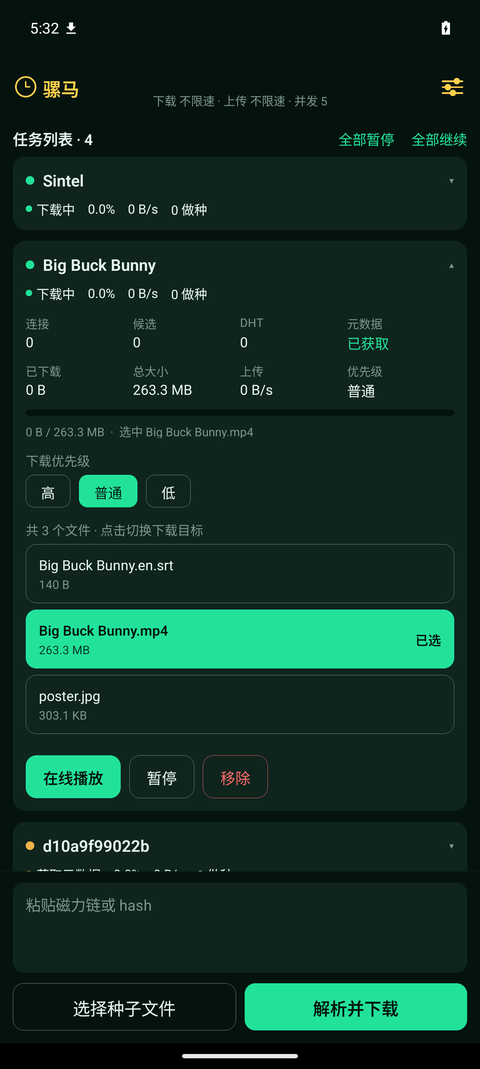
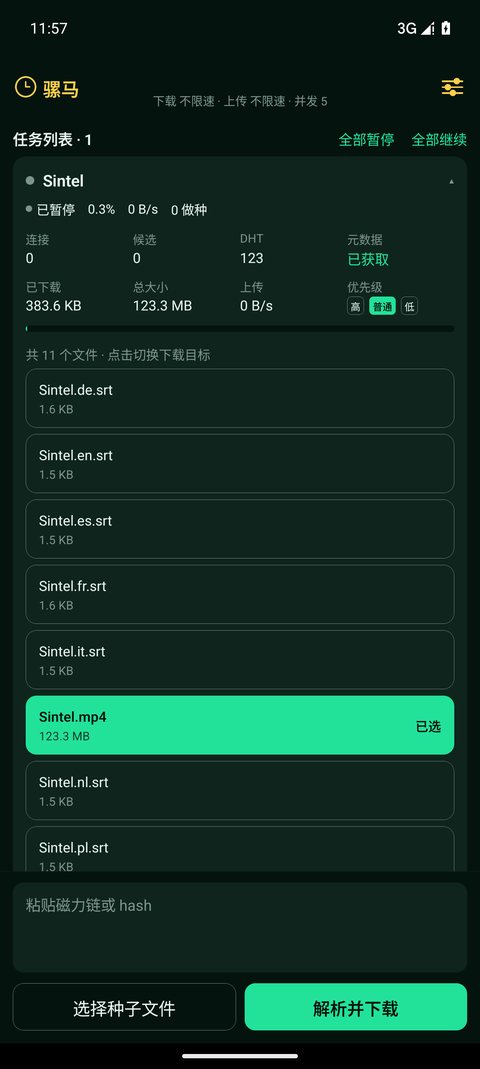
docs: README 更新到 0.2.12，更新任务详情截图

diff --git a/README.md b/README.md
@@ -26,11 +26,11 @@
 
 | | |
 |---|---|
-| 最新版本 | **v0.2.11**（[Releases](../../releases/latest)） |
+| 最新版本 | **v0.2.12**（[Releases](../../releases/latest)） |
 | 架构 | 仅 **arm64-v8a**（其他架构设备无法安装） |
 | 系统要求 | Android 9（API 28）及以上 |
 | 应用大小 | 约 18.5 MB |
-| 版本 | versionName 0.2.11 / versionCode 11 |
+| 版本 | versionName 0.2.12 / versionCode 12 |
 
 > 只支持 arm64-v8a：下载引擎的原生库只提供了这个架构的构建产物。
 
@@ -69,7 +69,15 @@
 - 任务卡从右侧向左滑，露出「移除」
 - 左上角历史图标是固定入口，不依赖手势
 
-## 本次更新（0.2.11）
+## 本次更新（0.2.12）
+
+- **暂停进度**：暂停任务重启后保留已下载、总大小、百分比，不再被空的 resume data 覆盖
+- **暂停状态**：恢复时直接以 PAUSED 加入 session，重启后不会自动开始下载/上传
+- **卡片精简**：移除进度条下重复的「已下载 / 总大小 · 选中文件」文字
+- **优先级**：高/普通/低选择器移入「信息」区的优先级列，并稍微加大按钮间距
+- **实测**：0.3%（383.6 KB / 123.3 MB）的任务暂停 → 关闭 → 重开，仍显示 0.3% / 383.6 KB
+
+### 0.2.11
 
 - **性能**：不再每秒调用 `fileProgress()`（文件多的种子开销明显），进度改用 `status.progress()`
 - **性能**：连接数/做种数/名称/选中文件大小等每秒重复查询改为缓存或单次读取
